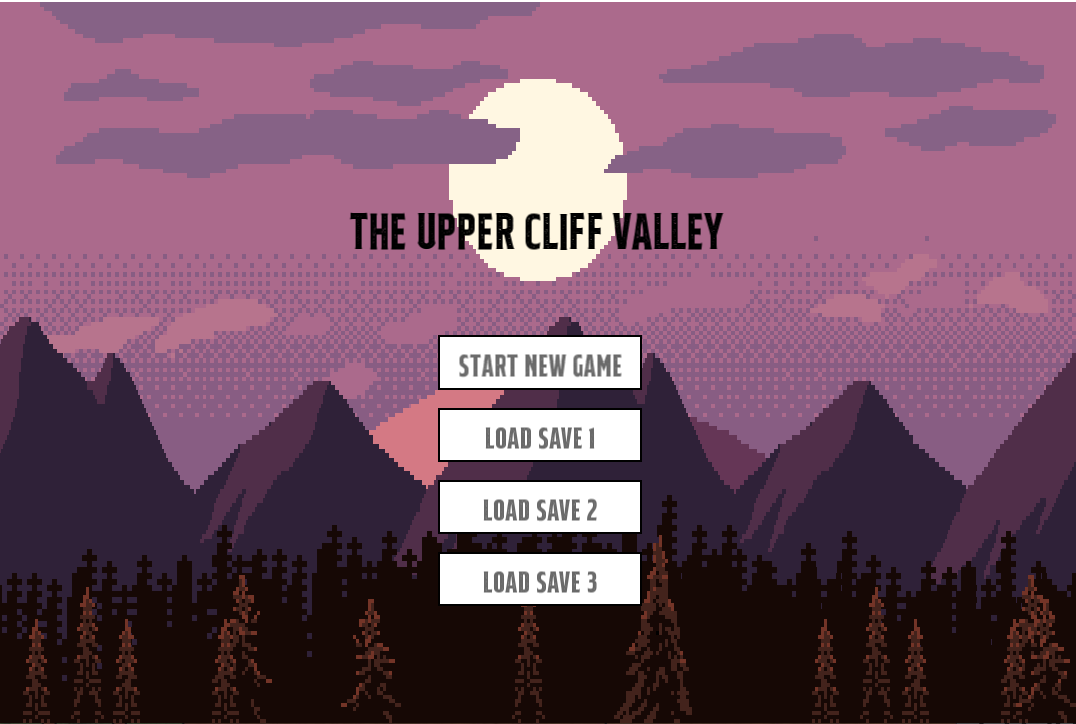
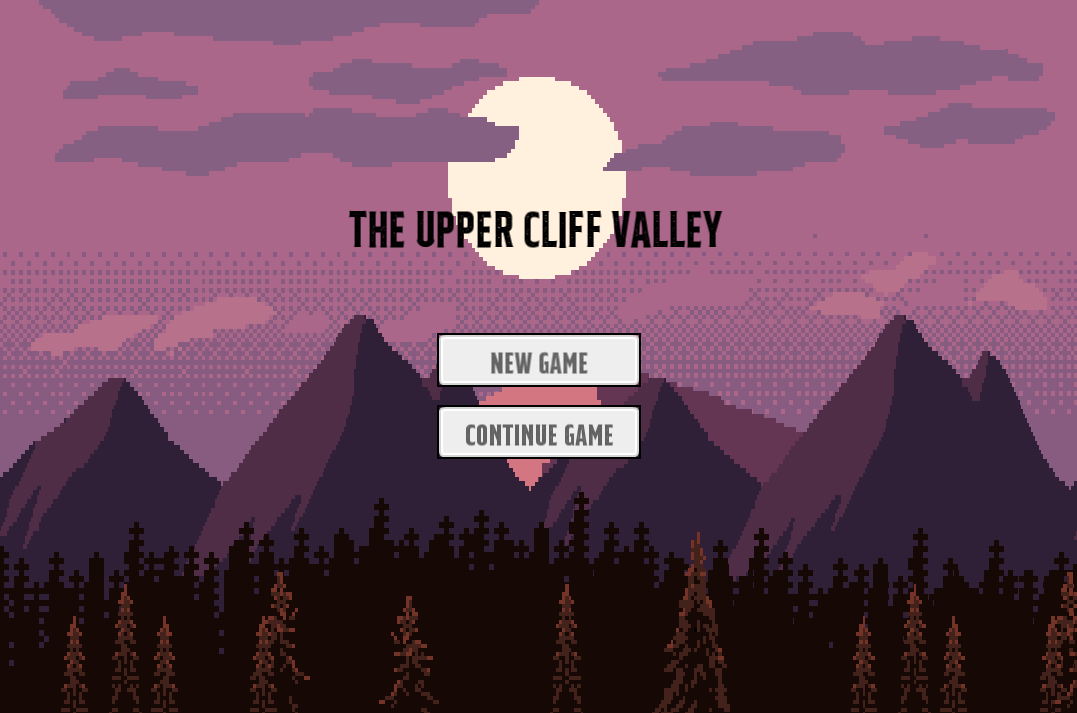
Updated wesbite Porject page

diff --git a/index.html b/index.html
@@ -6,7 +6,7 @@
 -->
 <html>
 	<head>
-		<title>Dimension by HTML5 UP</title>
+		<title>The Upper-Cliff Valley</title>
 		<meta charset="utf-8" />
 		<meta name="viewport" content="width=device-width, initial-scale=1, user-scalable=no" />
 		<link rel="stylesheet" href="assets/css/main.css" />
@@ -43,50 +43,109 @@
 
 							<article id="intro">
 								<h2 class="major">Intro</h2>
-								<span class="image main"><img src="images/pic01.jpg" alt="" /></span>
+								<span class="image main"><img src="images/title.png" alt="" /></span>
 								<p>
-									The Upper-Cliff Valley is an RTS game where you need to train units, create buildings and kill bad guys.
+									The Upper-Cliff Valley is an RTS (Real time strategy) game, where you train units to collect resources fight!
+									Defeat the enemies by destroying all of their bases and win the game!
+									But if they destroy your Headquarters, you lose the game!
 								</p>
 							</article>
 
 							<article id="project">
 								<h2 class="major">Project</h2>
 								<span class="image main">
-									<img src="images/menu.png" alt="" />
-									<p>Here is my project</p>
+									<img src="images/MainMenu.gif" alt="" />
+									<p>This is the main menu for my game
+										You can choose to pick either <b>new game</b> or <b>continue game</b> <br>
+										New game lets you play a level from the start <br>
+										Continue game lets you play a level that you have saved
+										
+									</p>
 								</span>
 								
 
 								<span class="image main">
 									<b>Level Editor</b>
-									<img src="images/leveleditor.png" alt="" />
+									<img src="images/LevelEditor.gif" alt="" />
 									<p>
-										I decided to make a level editor in RayLib instead of SFML. 
-										This was quite challenging as I have never used RayLib before but I think it turned out well 
+										I decided to make a level editor in RayLib instead of SFML <br>
+										This was quite challenging as I have never used RayLib before but I think it turned out well <br>
+										You can start creating a brand new level or you can decide to load one of the already made levels and edit those <br>
+										Once you save these levels that you create, you will be able to play them in the game <br>
+										This saves them in JSON format
 									</p>
 								</span>
 
 								<span class="image main">
-									<b>Saving to JSON file</b>
-									<img src="images/save.png" alt=""/>
+									<b>Units</b>
+									<img src="images/Units.gif" alt=""/>
 									<p>
-										The level editor can save and load 3 files using JSON
+										To create units, you use the Headquarters <br>
+										There are two different types of units. Fighters and Workers <br>
+										There are two fighters: a Warrior and an Archer (technically a mage type of thing) <br>
+										The fighters can attack the enemies and group up to make formations <br>
+										There are three workers: a Miner, an Oil Man and a Hazmat Man <br>
+										The workers gather resources from their respective building
 									</p>
 								</span>
 
 								<span class="image main">
-									<b>Loading the JSON level into my SFML game</b>
-									<img src="images/load.png" alt=""/>
+									<b>Buildings</b>
+									<img src="images/Buildings.gif" alt=""/>
 									<p>
-										After saving the level in the level editor, you can then load it into the SFML game
+										To create buildings, you also you use the Headquarters <br>
+										There are three different types of buildings to create. A Gold Mine, an Oil Extractor and a Uranium Extractor <br>
+										These buildings need to be assigned a worker. Only the worker who matches the building can work there <br>
+										For example the miner could not work on the oil extractor <br>
+										Multiple workers can be assigned to a building, this speeds up the process and earns you more resources 
 									</p>
 								</span>
 
 								<span class="image main">
-									<b>Buildings and Units</b>
-									<img src="images/training.png" alt=""/>
+									<b>Enemies</b>
+									<img src="images/Buildings.gif" alt=""/>
 									<p>
-										After saving the level in the level editor, you can then load it into the SFML game
+										Enemies in the game are called <b>Sucklers</b> <br>
+									</p>
+								</span>
+
+								<span class="image main">
+									<b>Enemy Bases</b>
+									<img src="images/Buildings.gif" alt=""/>
+									<p>
+										The enemies have bases scattered around the map<br>
+									</p>
+								</span>
+
+								<span class="image main">
+									<b>Spaceships and Eggs</b>
+									<img src="images/Buildings.gif" alt=""/>
+									<p>
+										The enemies have bases scattered around the map<br>
+									</p>
+								</span>
+
+								<span class="image main">
+									<b>Inventory</b>
+									<img src="images/Buildings.gif" alt=""/>
+									<p>
+										The enemies have bases scattered around the map<br>
+									</p>
+								</span>
+
+								<span class="image main">
+									<b>Formations</b>
+									<img src="images/Buildings.gif" alt=""/>
+									<p>
+										The enemies have bases scattered around the map<br>
+									</p>
+								</span>
+
+								<span class="image main">
+									<b>Path Finding</b>
+									<img src="images/Buildings.gif" alt=""/>
+									<p>
+										The enemies have bases scattered around the map<br>
 									</p>
 								</span>
 							</article>
